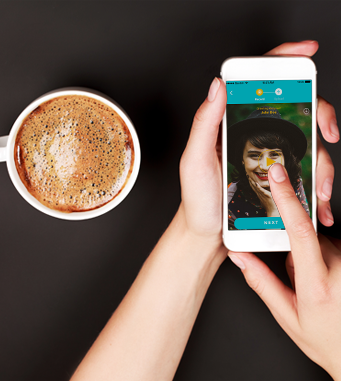
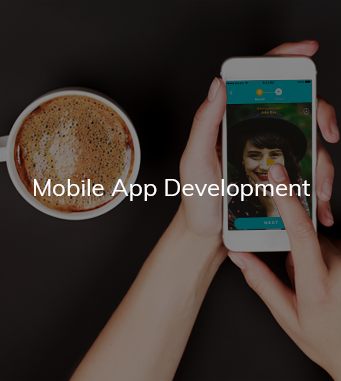
Added rollover
Trying to center divs

diff --git a/css/css1.css b/css/css1.css
@@ -65,6 +65,7 @@ h2 {
 .center {
   text-align: center;
 
+
 }
 
 .thirdsSizing {
@@ -88,6 +89,145 @@ h3 {
   color: #1B6892;
 }
 
+
+.jobContainer {
+  padding-top: 5em;
+  padding-bottom: 5em;
+  text-align: center;
+;
+
+}
+
 .jobs {
-  float: left;
+  display: inline-block;
+}
+
+
+.view {
+    width: auto;
+    height: auto;
+    margin: 10px;
+    float: left;
+    border: 10px solid #fff;
+    overflow: hidden;
+    position: relative;
+    text-align: center;
+    cursor: default;
+    background: #fff url(../images/bgimg.jpg) no-repeat center center
+}
+.view .mask, .view .content {
+    width: 370px;
+    height: 500px;
+    position: absolute;
+    overflow: hidden;
+    top: 0;
+    left: 0
+}
+.view img {
+    display: block;
+    position: relative
+}
+.view h2 {
+    text-transform: uppercase;
+    color: #fff;
+    text-align: center;
+    position: relative;
+    font-size: 17px;
+    padding: 10px;
+    background: rgba(0, 0, 0, 0.8);
+    margin: 20px 0 0 0
+}
+.view p {
+    font-family: 'Muli', sans-serif;
+    font-size: 16px;
+    position: relative;
+    color: #fff;
+    padding: 10px 20px 20px;
+    text-align: center
+}
+.view a.info {
+    display: inline-block;
+    text-decoration: none;
+    padding: 7px 14px;
+    background: #000;
+    color: #fff;
+    text-transform: uppercase;
+    box-shadow: 0 0 1px #000
+}
+.view a.info:hover {
+    box-shadow: 0 0 5px #000
+}
+
+.view-sixth:hover .mask {
+	opacity:1;
+	transition-delay: 0s;
+}
+.view-sixth:hover img {
+	transition-delay: 0s;
+}
+.view-sixth:hover h2 {
+	opacity: 1;
+    transform: scale(1);
+	transition-delay: 0.1s;
+}
+.view-sixth:hover p {
+	opacity:1;
+    transform: scale(1);
+	transition-delay: 0.2s;
+}
+.view-sixth:hover a.info {
+	opacity:1;
+    transform: translateY(0px);
+	transition-delay: 0.3s;
+}
+
+
+.view-sixth img {
+	transition: all 0.4s ease-in-out 0.5s;
+}
+.view-sixth .mask{
+	background-color: rgba(27,105,148,0.8);
+	opacity:0;
+	transition: all 0.3s ease-in 0.4s;
+}
+.view-sixth h2{
+	opacity:0;
+    border-bottom: 1px solid rgba(0, 0, 0, 0.3);
+    background: transparent;
+    margin: 20px 40px 0px 40px;
+    transform: scale(10);
+    transition: all 0.3s ease-in-out 0.1s;
+}
+.view-sixth p {
+	opacity:0;
+    transform: scale(10);
+	transition: all 0.3s ease-in-out 0.2s;
+}
+.view-sixth a.info {
+	opacity:0;
+    transform: translateY(100px);
+	transition: all 0.3s ease-in-out 0.1s;
+}
+
+.view-sixth:hover .mask {
+	opacity:1;
+	transition-delay: 0s;
+}
+.view-sixth:hover img {
+	transition-delay: 0s;
+}
+.view-sixth:hover h2 {
+	opacity: 1;
+    transform: scale(1);
+	transition-delay: 0.1s;
+}
+.view-sixth:hover p {
+	opacity:1;
+    transform: scale(1);
+	transition-delay: 0.2s;
+}
+.view-sixth:hover a.info {
+	opacity:1;
+    transform: translateY(0px);
+	transition-delay: 0.3s;
 }

diff --git a/index.html b/index.html
@@ -44,7 +44,7 @@
       <style>
         .banner {
           background-image: url('../UnfriendWebsite/images/Homepage/table.jpeg');
-          height: 100%;
+          height: 120%;
           background-size: cover;
         }
       </style>
@@ -76,15 +76,26 @@
         </div>
       </div>
     </div>
-    <div class="jobContainer">
-      <div class="jobs">
+    <div class="jobContainer center">
+      <div class="jobs col-md-6 col-xs-12 view-sixth view ">
         <img src="../UnfriendWebsite/images/Homepage/mobileAppScreen.png">
+        <div class="mask">
+          <h2>Mobile App Development</h2>
+          <p>No matter what products or services your business offers, there’s an app for that. With a clear interface designed to make the user experience as straightforward and focused as possible, a mobile app can effectively display a range of information, from prices, booking forms, and menus to messaging, banking, and news.</p>
+          <a href="#" class="info">Read More</a>
+        </div>
       </div>
-      <div class="jobs">
+      <div class="jobs col-md-6 col-xs-12 view-sixth view ">
         <img src="../UnfriendWebsite/images/Homepage/webAppScreen.png">
+        <div class="mask">
+          <h2>Web App Development</h2>
+          <p>At Unfriend Studios, LLC, our custom web applications are designed with your specifications in mind. Our team is platform agnostic, and we can work as an extension of your existing team.</p>
+          <a href="#" class="info">Read More</a>
+        </div>
       </div>
   </div>
   </div>
+
 
 
 </body>
